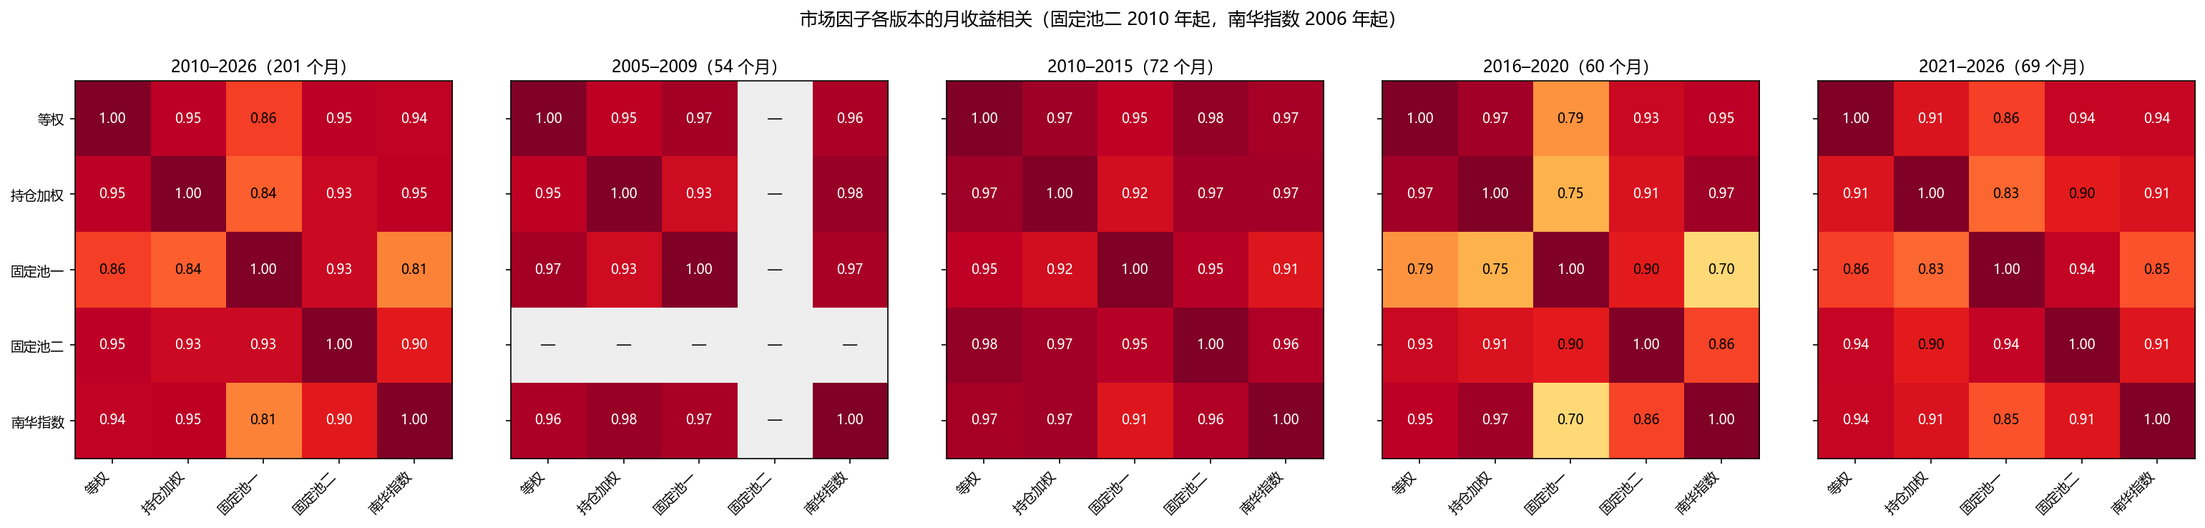
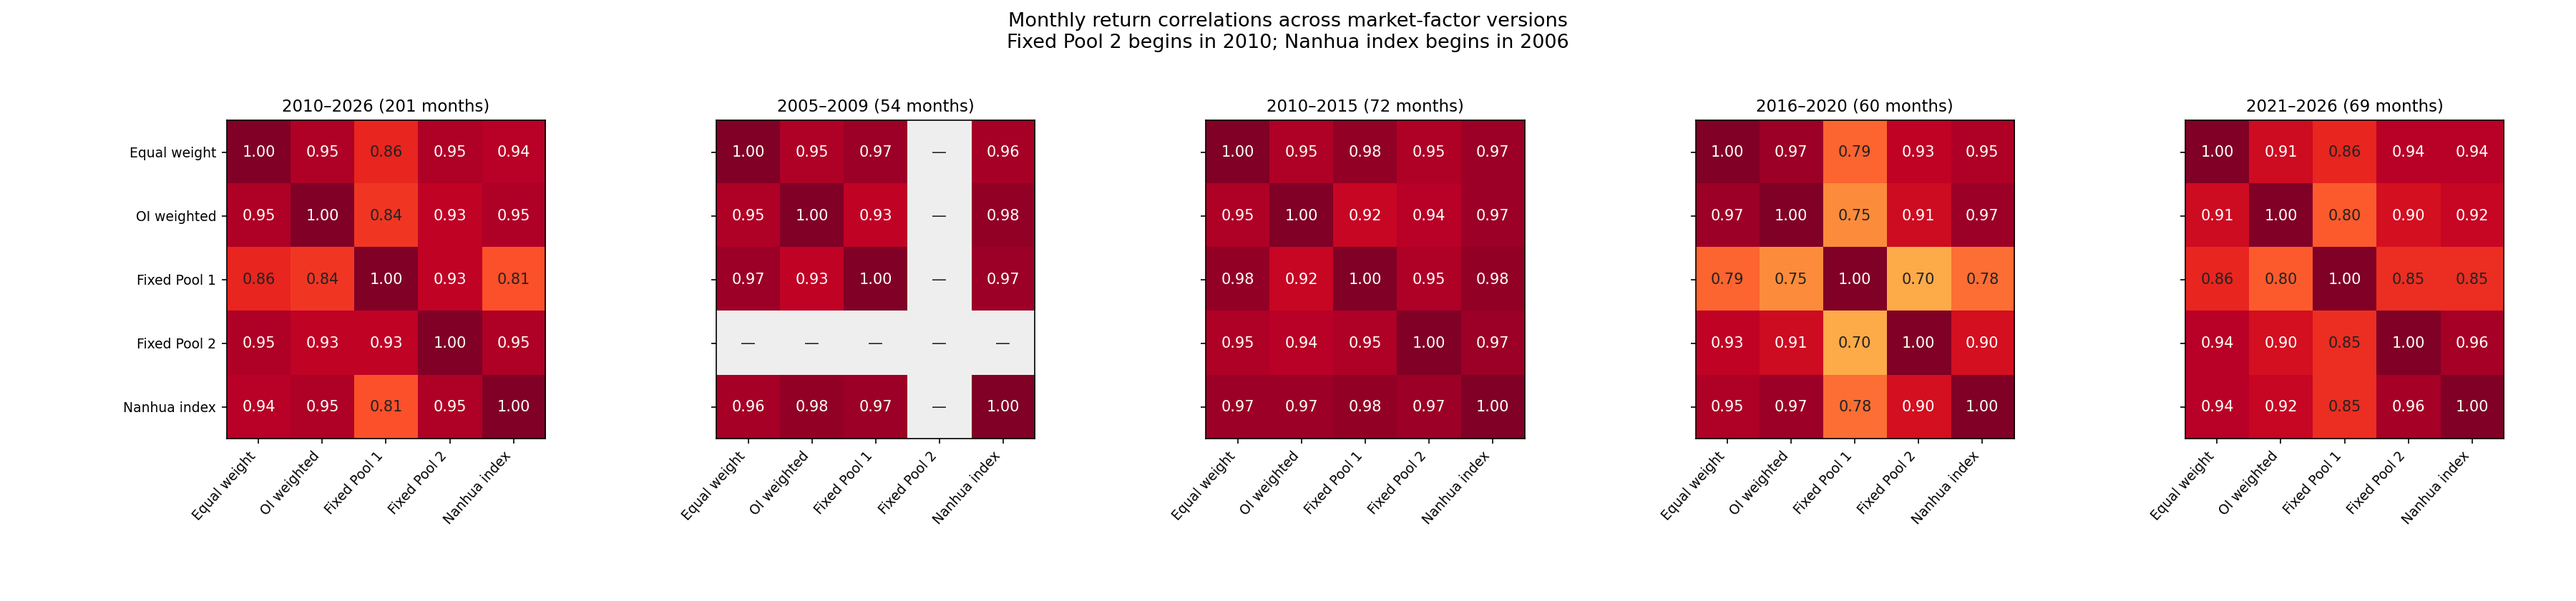
Redraw historical correlation figure with English labels

diff --git a/china_overview/overview.md b/china_overview/overview.md
@@ -25,6 +25,8 @@ The correlation between the monthly returns of each version (calculated in this 
 
 ![Correlation of each version of market factors](figures/market_versions_corr.png)
 
+*English redraw of the historical figure using its displayed two-decimal correlations; no underlying data were re-estimated.*
+
 - The correlation between equal weighting, open-interest weighting, fixed pool 2 and Nanhua Index in each period is basically 0.86~0.98, and can be regarded as the same factor.
 - Fixed Pool 1 correlates 0.93–0.97 with the other versions before 2010. During 2016–2020, its correlations with the equal-weighted, open-interest-weighted, and Nanhua indices fall to 0.70–0.79: it excludes ferrous metals and most chemicals, which followed distinct trends during the supply-side reform.
 - Therefore, to compare different years, use fixed pool two; fixed pool one can only represent the "market of old instruments".
